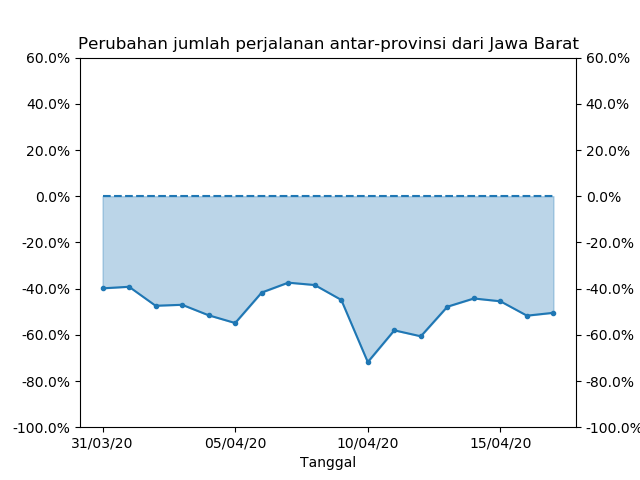
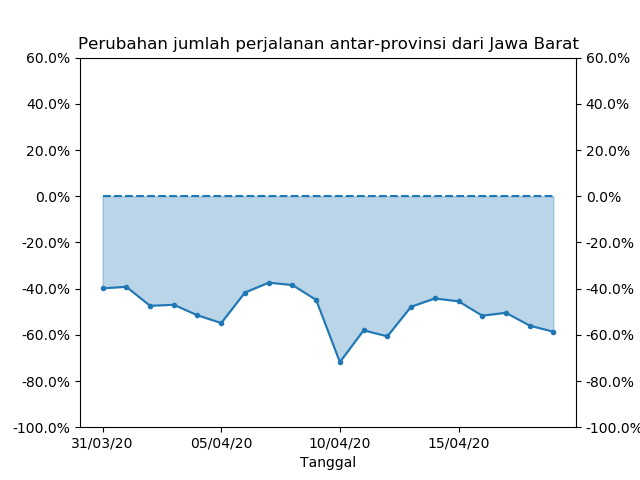
Update mobility

diff --git a/idcovid19-mobility.md b/idcovid19-mobility.md
@@ -10,30 +10,30 @@ Diperbarui pada: 20/04/2020<br/>
 
 #### DKI Jakarta
 
-Rata-rata 10 hari terakhir: -53.3%
+Rata-rata 10 hari terakhir: -56.3%
 
 <img title="DKI Jakarta" src="{{ site.baseurl }}/assets/idcovid19-mobility/antar-provinsi_dari_dki_jakarta.png" width="50%"/>
 
 #### Jawa Barat
 
-Rata-rata 10 hari terakhir: -51.4%
+Rata-rata 10 hari terakhir: -54.5%
 
 <img title="Jawa Barat" src="{{ site.baseurl }}/assets/idcovid19-mobility/antar-provinsi_dari_jawa_barat.png" width="50%"/>
 
 #### Jawa Timur
 
-Rata-rata 10 hari terakhir: -23.1%
+Rata-rata 10 hari terakhir: -22.4%
 
 <img title="Jawa Timur" src="{{ site.baseurl }}/assets/idcovid19-mobility/antar-provinsi_dari_jawa_timur.png" width="50%"/>
 
 #### Sulawesi Selatan
 
-Rata-rata 10 hari terakhir: -48.2%
+Rata-rata 10 hari terakhir: -45.5%
 
 <img title="Sulawesi Selatan" src="{{ site.baseurl }}/assets/idcovid19-mobility/antar-provinsi_dari_sulawesi_selatan.png" width="50%"/>
 
 #### Jawa Tengah
 
-Rata-rata 10 hari terakhir: -32.8%
+Rata-rata 10 hari terakhir: -35.6%
 
 <img title="Jawa Tengah" src="{{ site.baseurl }}/assets/idcovid19-mobility/antar-provinsi_dari_jawa_tengah.png" width="50%"/>
